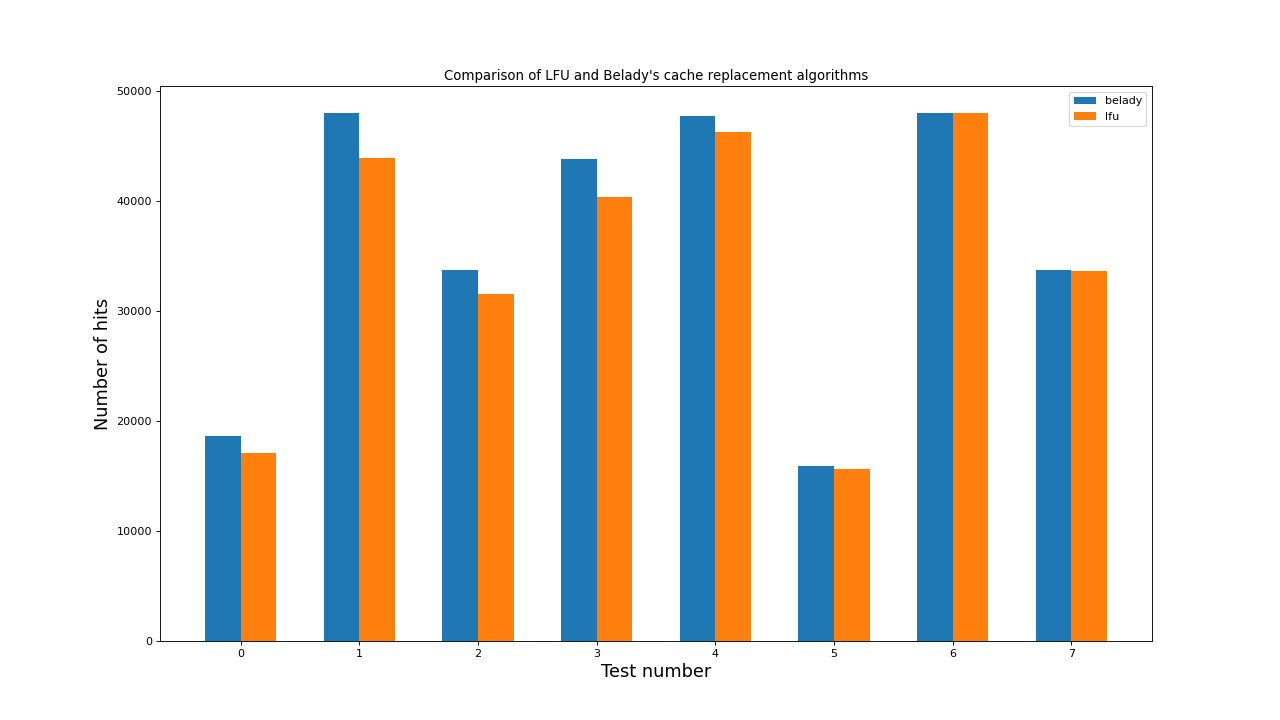
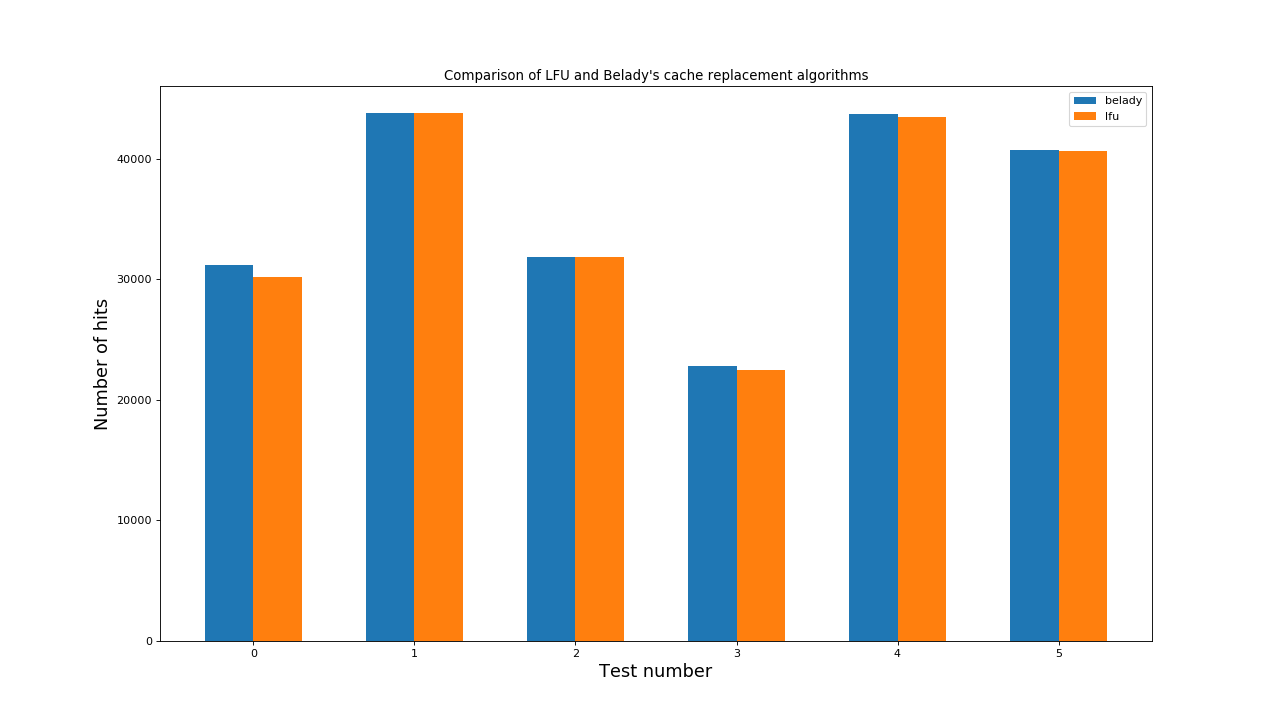
Added a cache comparison graph

diff --git a/belady_cache.cpp b/belady_cache.cpp
@@ -43,9 +43,9 @@ int main()
 
     int hits = 0;
 
-    for (rq_iter rq = rq_array.begin(), rq_end = rq_array.end(); rq != rq_end; ++rq)
+    for (auto i : rq_array)
     {
-        hits += my_cache.lookup_update(*rq);
+        hits += my_cache.lookup_update(i);
     }
 
     std::cout << hits << std::endl;

diff --git a/README.md b/README.md
@@ -46,6 +46,10 @@ The class is wrapped in the 'belady_caches' namespace.
 The function `lookup_update()` allows you to save new elements to the cache. If the 'key' is already used in the cache, the function returns 'true', otherwize 'false'.
 The function `full()` checks if the cache is full.
 
+## Comparison
+Let's compare how much LFU-Cache is inferior to the Belady-cache:
+![my Belady-cache structure](./images/algorithm_comparison.jpg)
+
 ## Build
 
 For compile this project, type:
